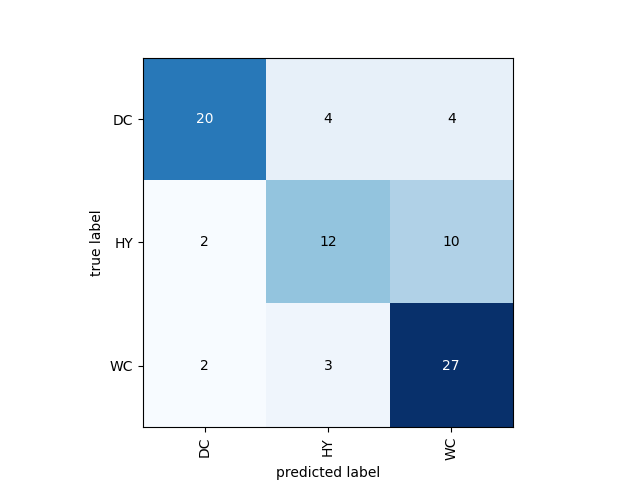
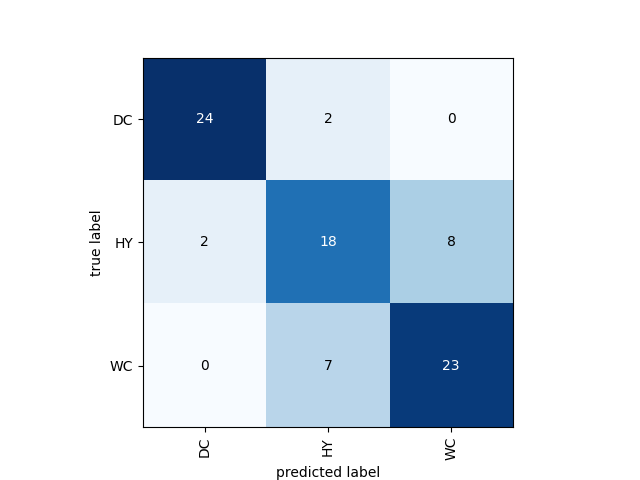
fixing errors and adding reports

diff --git a/training.py b/training.py
@@ -134,12 +134,12 @@ class SimpleNet(nn.Module):
                 self.fc1
             )
         else:
-            self.model = self.base_model
+            # self.model = copy.deepcopy(self.base_model)
             
-            self.model.fc = nn.Linear(num_ftrs, 3)
+            self.base_model.fc = nn.Linear(num_ftrs, 3)
         
     def forward(self, x):
-        x = self.model(x)
+        x = self.base_model(x)
         return x
 
 class PyTorchTrainable(tune.Trainable):
@@ -162,8 +162,8 @@ class PyTorchTrainable(tune.Trainable):
         # self.train_data_loader, self.valid_data_loader = load_data(BATCH_SIZE, NUM_WORKERS)
         
         # self.train_data_loader, self.valid_data_loader = self.trainable_data_loaderp["train"], self.trainable_data_loader["val"]
-        data_loader = load_data(32)[0]
-        self.train_data_loader, self.valid_data_loader= data_loader["train"], data_loader["val"]
+        self.data_loader, self.class_names, self.dataset_size = load_data(32)
+        self.train_data_loader, self.valid_data_loader= self.data_loader["train"], self.data_loader["val"]
         # create model        
         # base_model = torchvision.models.resnet50(pretrained=True)
         # for param in base_model.parameters():
@@ -171,22 +171,31 @@ class PyTorchTrainable(tune.Trainable):
         # NN config
         num_units = config.get("hidden_units", 128)                    
         drop_rate = config.get("drop_rate", 0.0)        
-        activation = config.get("activation", nn.ReLU(True))        
-        base_model = config.get("base_model")
+        activation = config.get("activation", nn.ReLU())        
+        base_model = config.get("base_model","resnet")
         use_classifier = config.get("use_classifier", False)
-        loss = config.get("loss")
+        loss = config.get("loss", "cross")
         
         # self.model = SimpleNet(base_model, 2048, num_units, drop_rate, activation)
         self.model = SimpleNet(base_model, use_classifier, num_units, drop_rate, activation)
         self.model.to(self.device)
+
+
+        dir_path = os.path.dirname(os.path.realpath(__file__))
+        with open(os.path.join(dir_path,"running_model.txt"), "w") as f:
+            f.write(self.model.__repr__())
+
         # optimizer & loss
         # self.criterion = nn.CrossEntropyLoss()
         self.criterion = nn.CrossEntropyLoss() if loss == "cross" else FocalLoss()
         self.optimizer = torch.optim.SGD(
             self.model.parameters(), 
-            lr=config.get("learning_rate", 1e-4), 
+            lr=config.get("learning_rate", 1e-2), 
             momentum=config.get("momentum", 0.9)
         )
+
+        with open(os.path.join(dir_path,"running_lossoptim.txt"), "w") as f:
+            f.write(self.criterion.__repr__() + "\n" + self.optimizer.__repr__())
         # self.exp_lr_scheduler = lr_scheduler.StepLR(self.optimizer, step_size=20, gamma=0.1)
         
         
@@ -194,64 +203,126 @@ class PyTorchTrainable(tune.Trainable):
         """Single training loop
         """
         # set to the model train mode
+
         self.model.train()
-        epoch_loss = 0
+
+        running_loss = 0.0
         running_corrects = 0
-        
-        for images, labels  in self.train_data_loader:
-            images = images.to(self.device)
+
+        for inputs, labels in self.train_data_loader:
+            inputs = inputs.to(self.device)
             labels = labels.to(self.device)
 
             self.optimizer.zero_grad()
-            
+
             with torch.set_grad_enabled(True):
-                outputs = self.model(images)
-                _, preds = torch.max(outputs, 1)
+                outputs = self.model(inputs)
+                _, preds = torch.max(outputs,1)
                 loss = self.criterion(outputs, labels)
+
                 loss.backward()
                 self.optimizer.step()
-                # track losses
-            epoch_loss += loss.item() * images.size(0)
 
-            # running_corrects += torch.sum(preds == labels).item()
+            running_loss += loss.item() * inputs.size(0)
             running_corrects += torch.sum(preds == labels.data)
-        # self.exp_lr_scheduler.step()
+
+        epoch_loss = running_loss / self.dataset_size["train"] ## need to be checked
+        epoch_acc = running_corrects.double() / self.dataset_size["train"] ## need to check size
+
+        
+
+        print(f'Train Loss: {epoch_loss:.4f} Acc: {epoch_acc:.4f}')
+
+        return epoch_loss, epoch_acc.item()
+
+
+        # self.model.train()
+        # epoch_loss = 0
+        # running_corrects = 0
+        
+        # for images, labels  in self.train_data_loader:
+        #     images = images.to(self.device)
+        #     labels = labels.to(self.device)
+
+        #     self.optimizer.zero_grad()
+            
+        #     with torch.set_grad_enabled(True):
+        #         outputs = self.model(images)
+        #         _, preds = torch.max(outputs, 1)
+        #         loss = self.criterion(outputs, labels)
+        #         loss.backward()
+        #         self.optimizer.step()
+        #         # track losses
+        #     epoch_loss += loss.item() * images.size(0)
+
+        #     # running_corrects += torch.sum(preds == labels).item()
+        #     running_corrects += torch.sum(preds == labels.data)
+        # # self.exp_lr_scheduler.step()
                 
-        loss = epoch_loss/len(self.train_data_loader)
-        # corrects = running_corrects/len(self.train_data_loader)
-        epoch_acc = running_corrects.double() / len(self.train_data_loader)
-        return loss, epoch_acc
+        # loss = epoch_loss/len(self.train_data_loader)
+        # # corrects = running_corrects/len(self.train_data_loader)
+        # epoch_acc = running_corrects.double() / len(self.train_data_loader)
+        # return loss, epoch_acc
     
     def _test_step(self):
         """Single test loop
         """        
-        epoch_loss = 0
-        running_corrects = 0
-        # set to model to eval mode
-        self.model.eval()
-        for images, labels  in self.valid_data_loader:
-            images = images.to(self.device)
-            labels = labels.to(self.device)
-            with torch.inference_mode():
-                outputs = self.model(images)
-                _, preds = torch.max(outputs, 1)
-                # preds = self.model(images)
-                loss = self.criterion(outputs, labels)
-            epoch_loss += loss.item() * images.size(0)
-            # predicted = torch.argmax(torch.softmax(preds,dim=1),dim=1)
-            # running_corrects += torch.sum(preds == labels).item()
-            running_corrects += torch.sum(preds == labels.data)
+        # epoch_loss = 0
+        # running_corrects = 0
+        # # set to model to eval mode
+        # self.model.eval()
+        # for images, labels  in self.valid_data_loader:
+        #     images = images.to(self.device)
+        #     labels = labels.to(self.device)
+        #     with torch.inference_mode():
+        #         outputs = self.model(images)
+        #         _, preds = torch.max(outputs, 1)
+        #         # preds = self.model(images)
+        #         loss = self.criterion(outputs, labels)
+        #     epoch_loss += loss.item() * images.size(0)
+        #     # predicted = torch.argmax(torch.softmax(preds,dim=1),dim=1)
+        #     # running_corrects += torch.sum(preds == labels).item()
+        #     running_corrects += torch.sum(preds == labels.data)
                     
-            # corrects = running_corrects/len(self.valid_data_loader)
-        epoch_acc = running_corrects.double() / len(self.valid_data_loader)
-        loss = epoch_loss/len(self.valid_data_loader)
-        return epoch_acc, loss
+        #     # corrects = running_corrects/len(self.valid_data_loader)
+        # epoch_acc = running_corrects.double() / len(self.valid_data_loader)
+        # loss = epoch_loss/len(self.valid_data_loader)
+        # return epoch_acc, loss
+
+        self.model.eval()
+
+        running_loss = 0.0
+        running_corrects = 0
+
+        for inputs, labels in self.valid_data_loader:
+            inputs = inputs.to(self.device)
+            labels = labels.to(self.device)
+
+            self.optimizer.zero_grad()
+
+            with torch.inference_mode():
+                outputs = self.model(inputs)
+                _, preds = torch.max(outputs,1)
+                loss = self.criterion(outputs, labels)
+
+
+            running_loss += loss.item() * inputs.size(0)
+            running_corrects += torch.sum(preds == labels.data)
+
+        epoch_loss = running_loss / self.dataset_size["val"] ## need to be checked
+        epoch_acc = running_corrects.double() / self.dataset_size["val"] ## need to check size
+
+        
+
+        print(f'Test Loss: {epoch_loss:.4f} Acc: {epoch_acc:.4f}')
+        # print(type(epoch_acc),"epoch acc type")
+        return epoch_loss, epoch_acc.item()
     
     def step(self):
         """Single training step
         """
         train_loss, train_acc = self._train_step()
-        test_acc, test_loss = self._test_step()
+        test_loss, test_acc  = self._test_step()
 
         return {
             "trloss": train_loss,
@@ -279,4 +350,9 @@ class PyTorchTrainable(tune.Trainable):
             checkpoint_path: load the model from this path
         """
         self.model.load_state_dict(torch.load(checkpoint_path))
+
+    def get_model(self):
+        return self.model
+
+    
 

diff --git a/hyper_tune.py b/hyper_tune.py
@@ -46,13 +46,13 @@ search_space = {
     # "hidden_units": tune.grid_search([ 512, 128, 256]),
     # "drop_rate": tune.uniform(0.0, 0.8),
     # "activation": tune.choice([nn.ReLU(True), nn.ELU(True), nn.SELU(True)]),
-    # "learning_rate": tune.loguniform(1e-3, 1e-1),
-    "learning_rate": tune.choice([1e-2]),
-    # "momentum": tune.uniform(0.1, 0.9),
-    "momentum": tune.choice([0.9]),
+    "learning_rate": tune.loguniform(1e-3, 1e-1),
+    # "learning_rate": tune.choice([1e-2]),
+    "momentum": tune.uniform(0.1, 0.9),
+    # "momentum": tune.choice([0.9]),
     # "base_model": tune.choice(["vgg", "resnet"]),
     "base_model": tune.choice([ "resnet"]),
-    "loss": tune.choice(["cross"]),
+    "loss": tune.choice(["cross", "focal"]),
 
 }
 
@@ -79,7 +79,7 @@ tuner = tune.Tuner(
     trainable,
     param_space=search_space,
     tune_config=tune.TuneConfig(
-        num_samples=5,
+        num_samples=10,
         metric="tst_loss",
         mode="min",
         max_concurrent_trials=10,
@@ -87,7 +87,7 @@ tuner = tune.Tuner(
     ),
     run_config=air.RunConfig(
         progress_reporter=reporter,
-        stop=tune.stopper.MaximumIterationStopper(50)
+        stop=tune.stopper.MaximumIterationStopper(100)
         )
 )
 

diff --git a/main.py b/main.py
@@ -19,7 +19,7 @@ cudnn.benchmark = True
 plt.ion()   # interactive mode
 
 
-EPOCHS = 30
+EPOCHS = 50
 save_name = "res_1_ce_sgd_b64_train_val_ilr001"
 
 from data import MyDataset, load_data
@@ -89,7 +89,7 @@ optimizer_conv = optim.SGD(resnet18.fc.parameters(), lr=0.01, momentum=0.9)
 # optimizer_conv = optim.Adam(resnet18.fc.parameters(), lr=0.001, betas=(0.9, 0.999))
 
 # Decay LR by a factor of 0.1 every 7 epochs
-exp_lr_scheduler = lr_scheduler.StepLR(optimizer_conv, step_size=20, gamma=0.1, verbose=True)
+exp_lr_scheduler = lr_scheduler.StepLR(optimizer_conv, step_size=20, gamma=1, verbose=True)
 
 
 from PIL import Image, ImageFile
